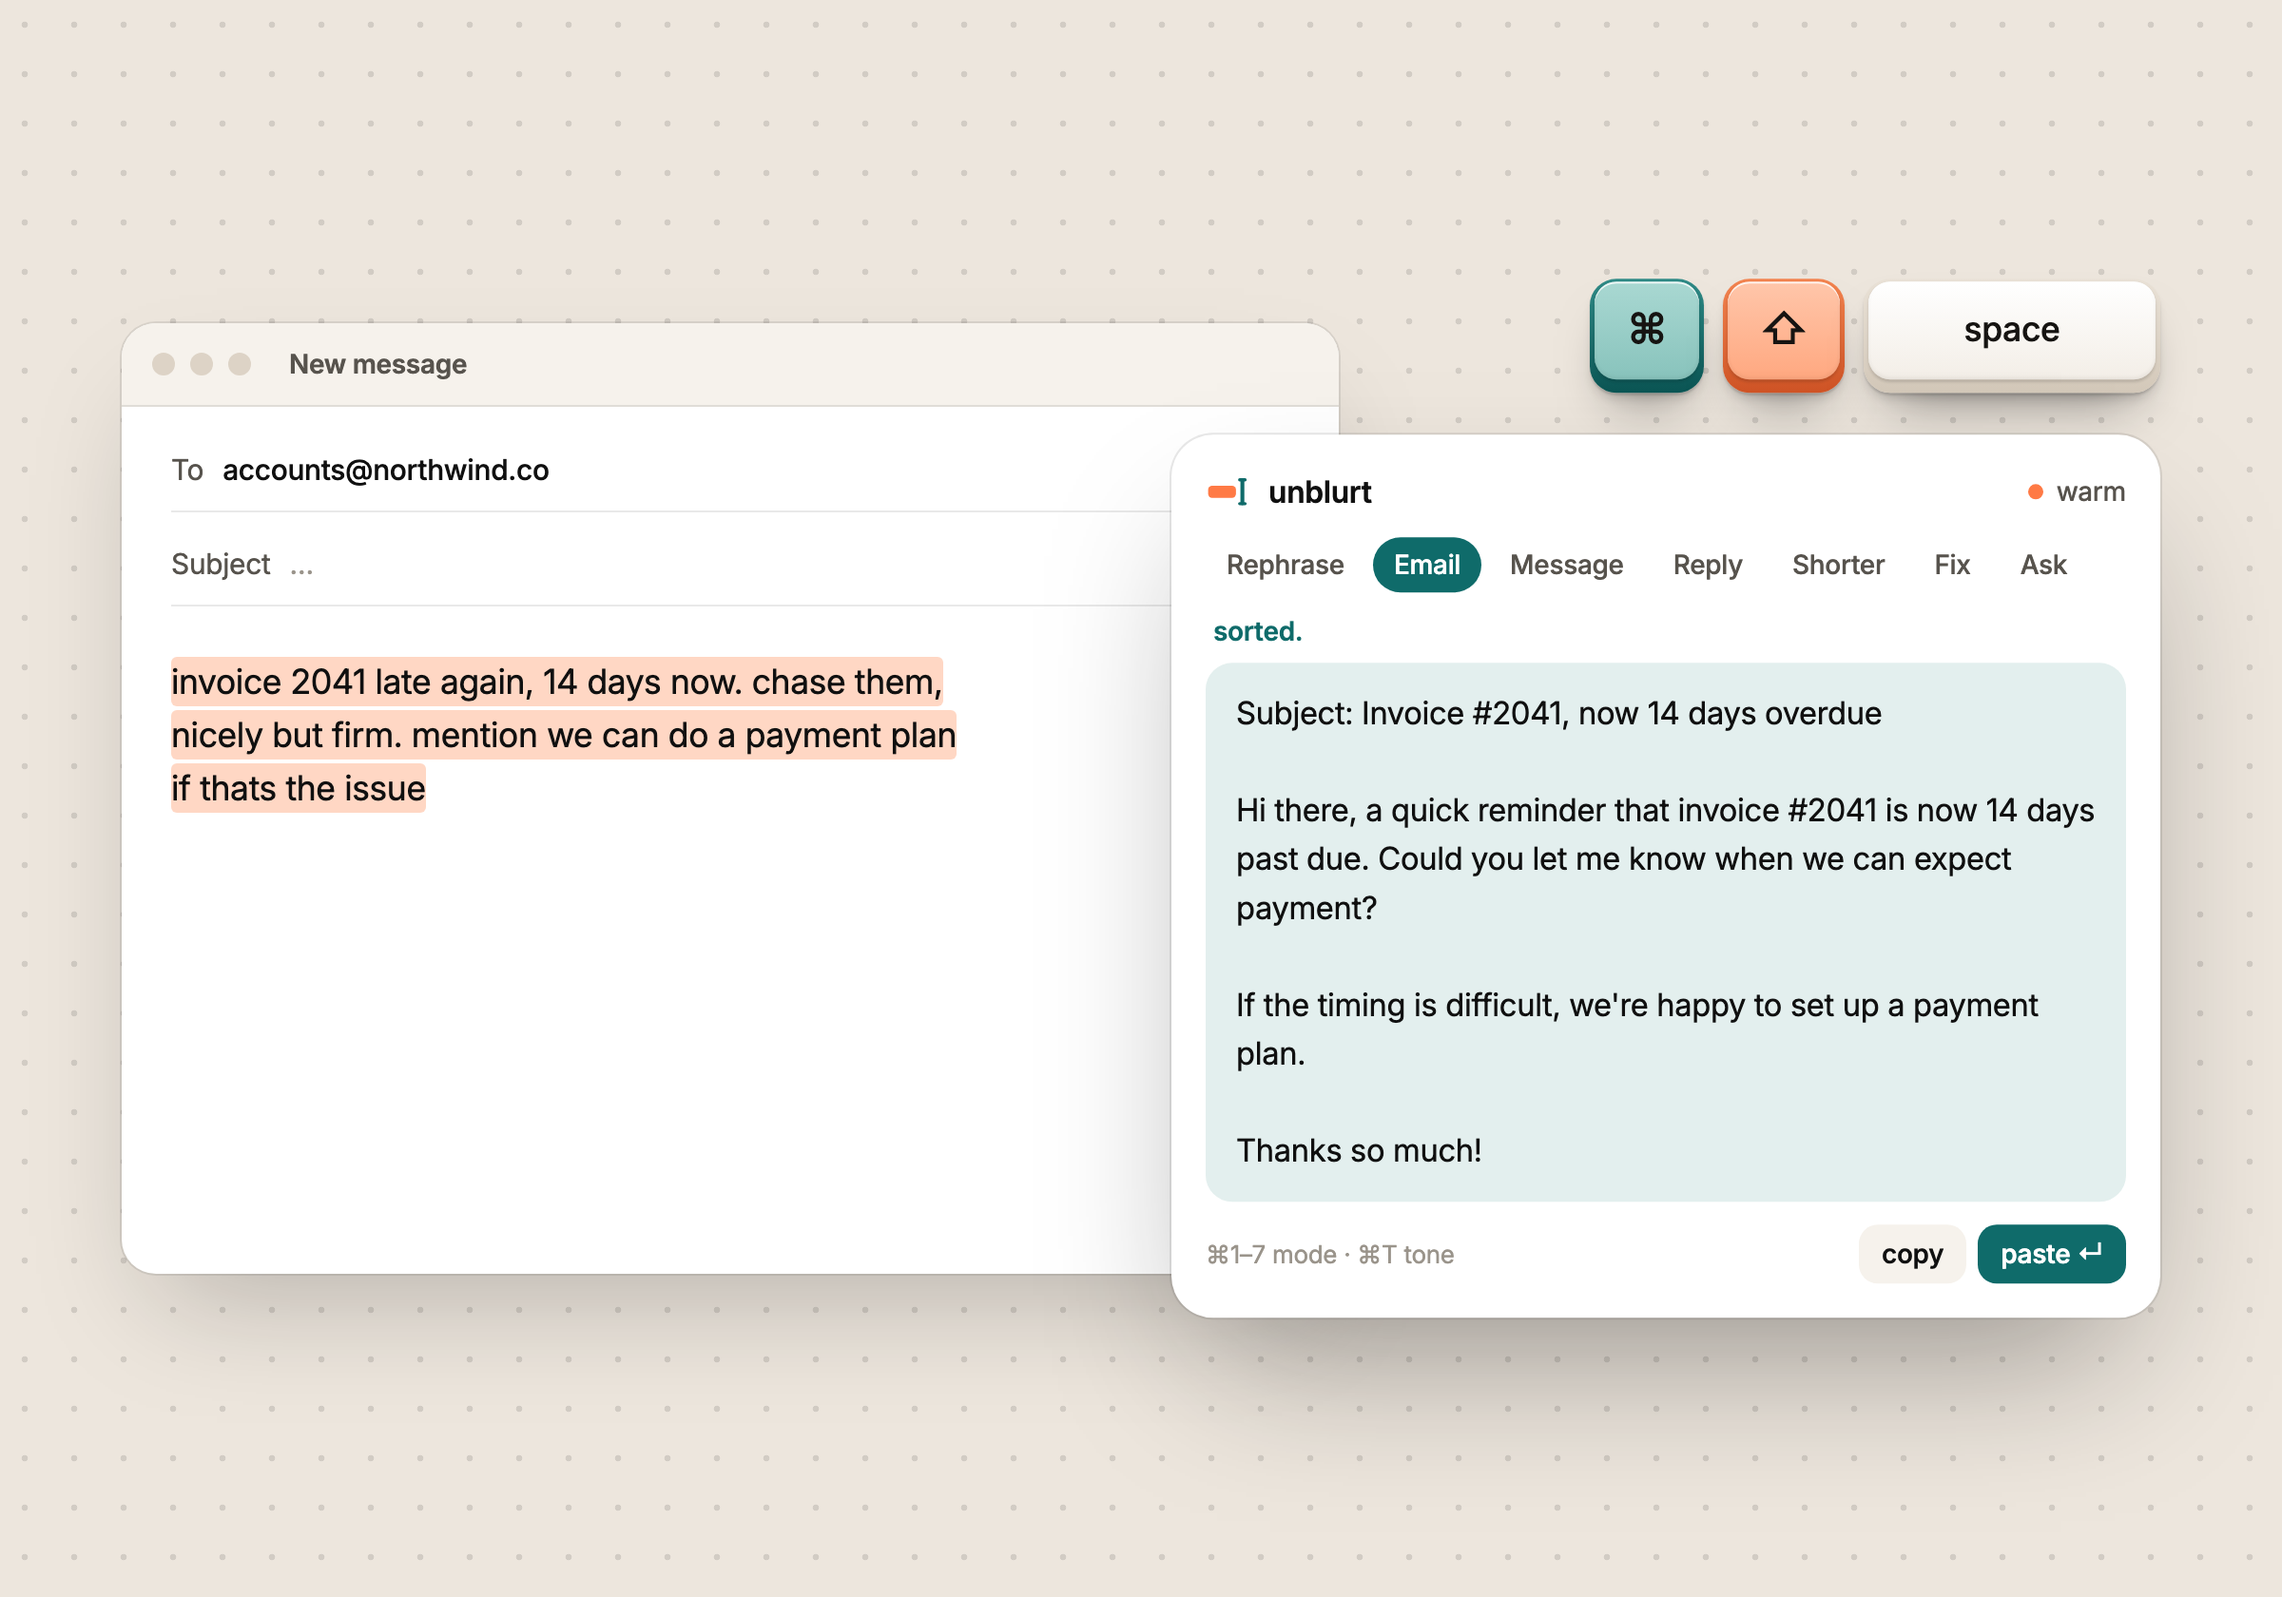
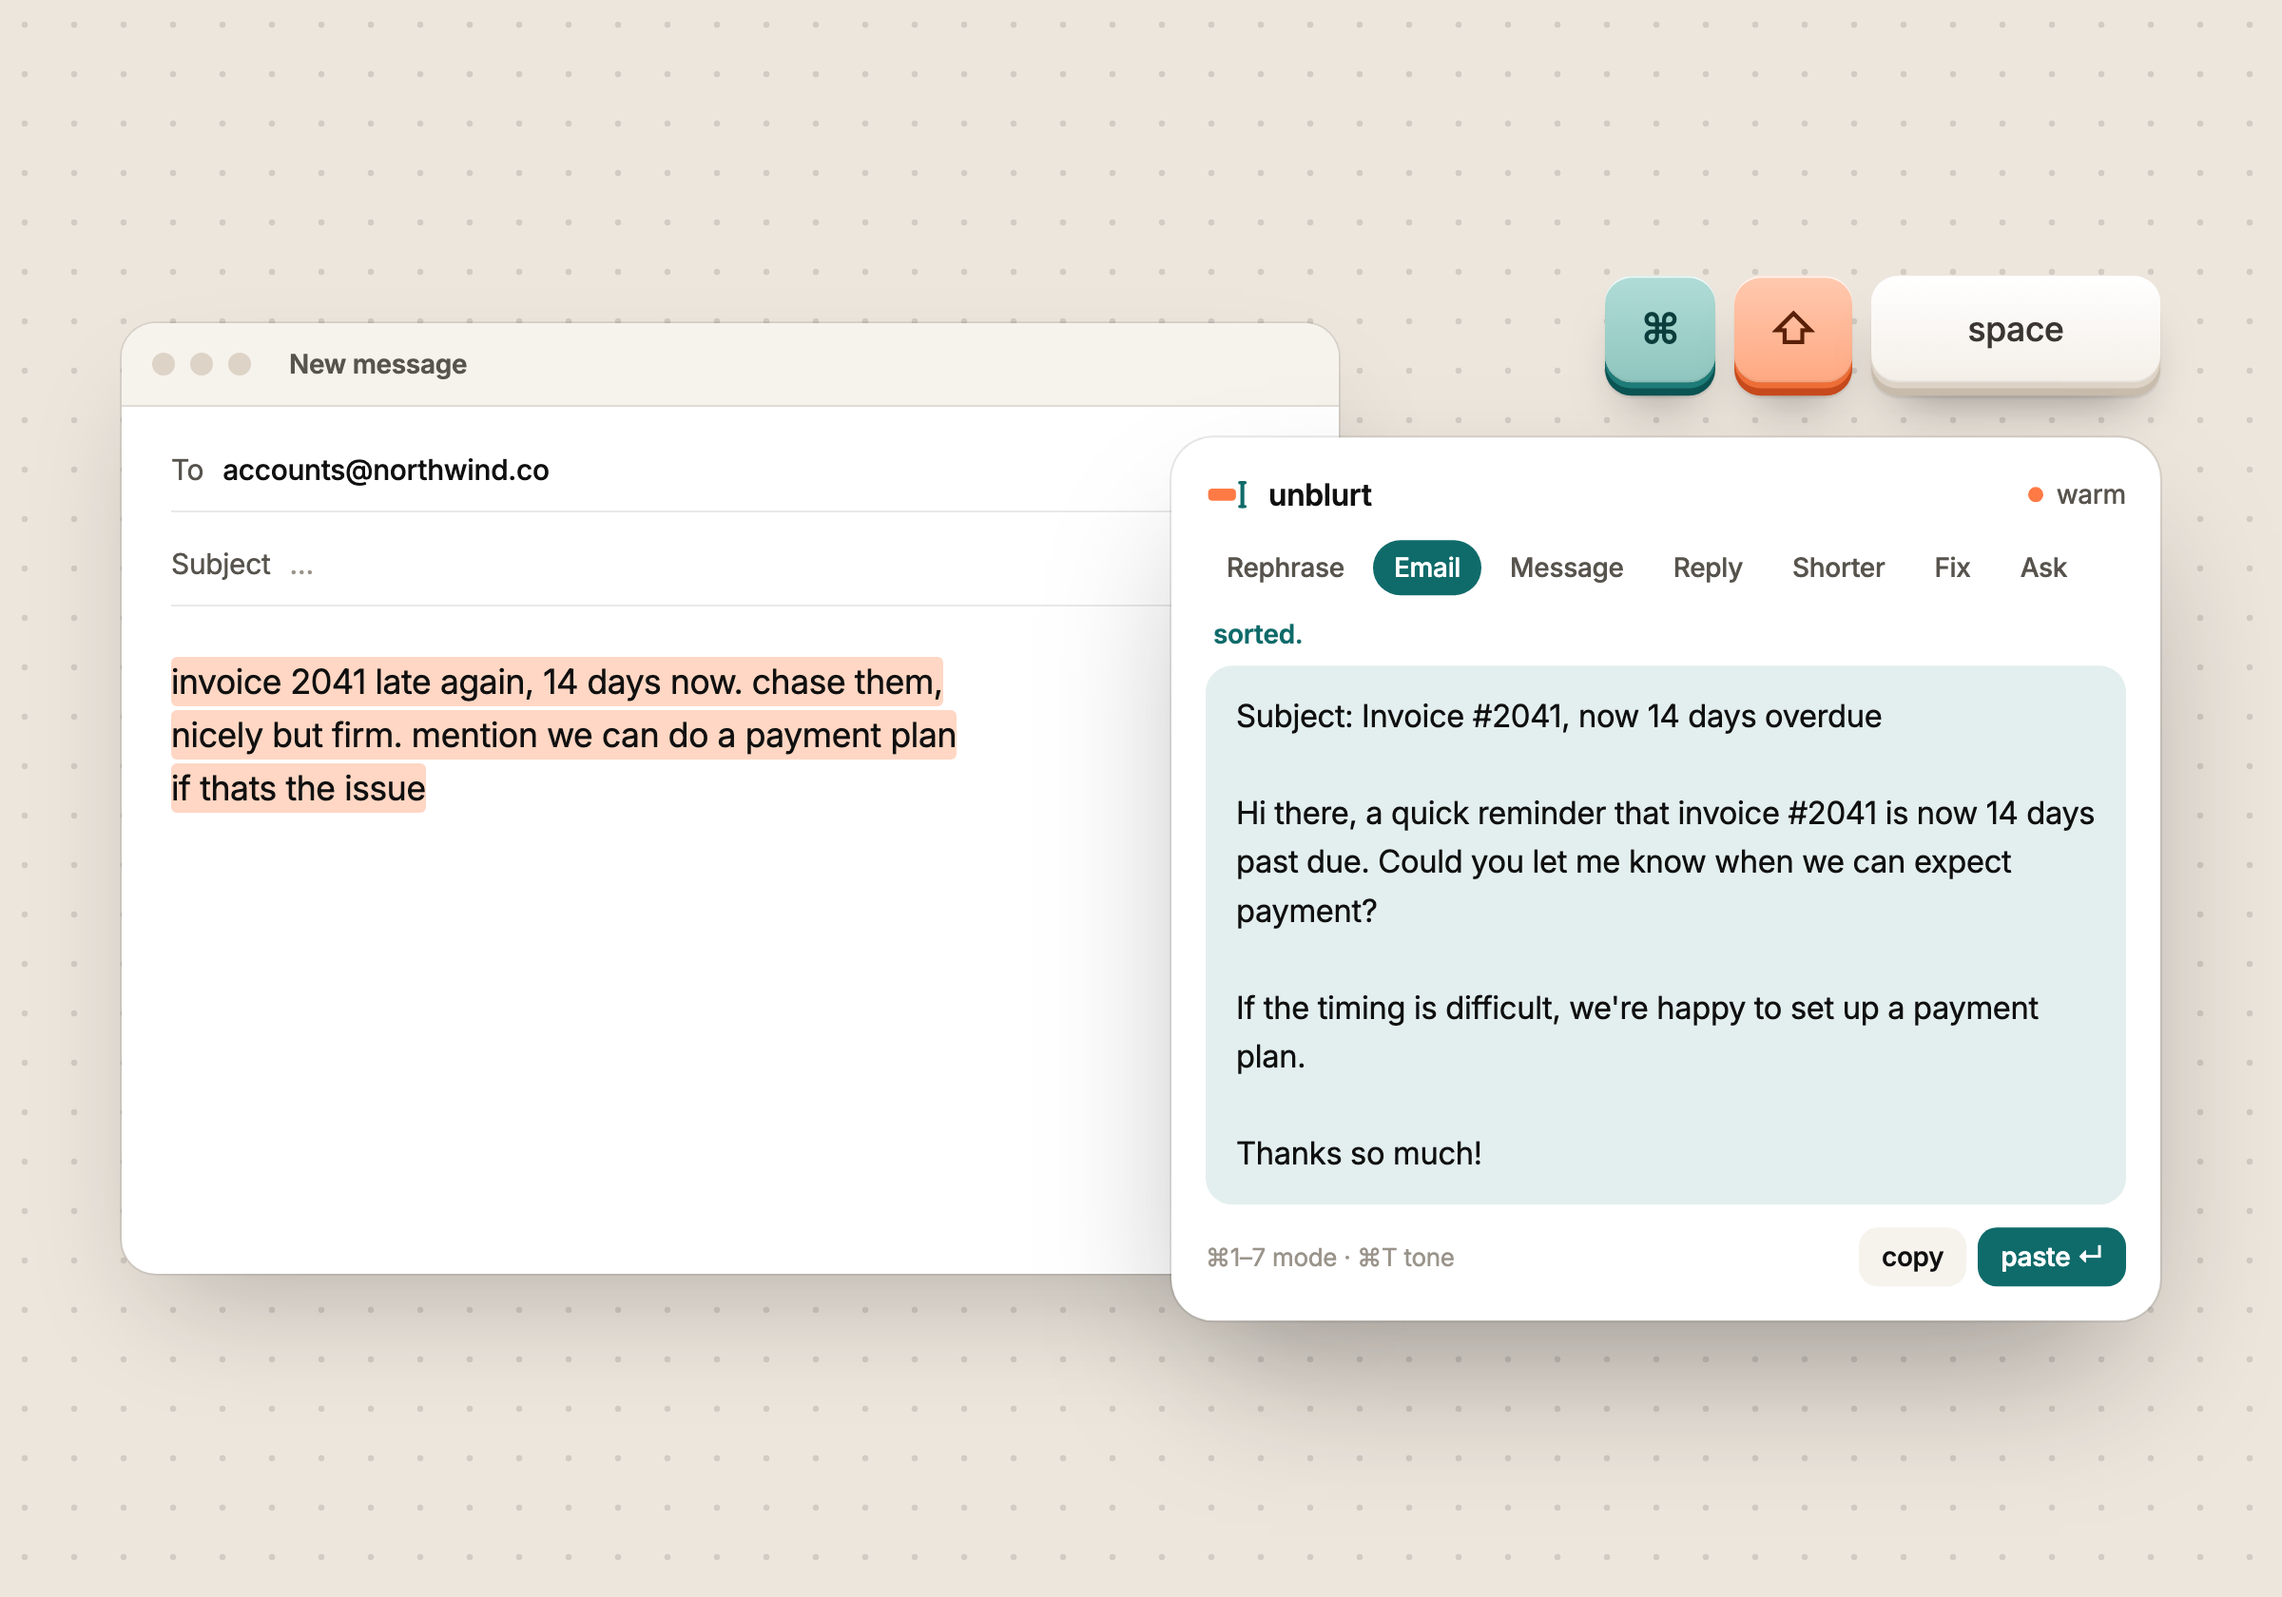
Keycaps: 'old, improved' style everywhere
A soft-gradient top on a two-tone side wall (lighter above, darker below),
deeper symbol colours and a springy press. One set of rules drives every key:
hero, How it works steps, demo overlay, story chip (with its tap animation),
inline keys in modes, download steps and FAQ, and the keys drawn in the product
shots (re-rendered).

QA: all pages at desktop and phone width with no errors or sideways scroll;
scroll hint clear of the scene at 9 sizes; hero at 6 sizes with the Download
button on the first screen down to 1280x720; story reaches all 7 steps; the
plate demo plays through on desktop and phone.

diff --git a/apps/web/assets/site.css b/apps/web/assets/site.css
@@ -43,20 +43,15 @@ button { font: inherit; color: inherit; }
 
 .wrap { max-width: var(--max); margin: 0 auto; padding: 0 var(--gutter); }
 
-/* Inline shortcut keys: a small version of the hero keycaps (lit face on a darker skirt). */
+/* Inline shortcut keys: a small version of the keycaps (soft top on a two-tone wall). */
 kbd {
-  position: relative; isolation: isolate;
+  --d: 0.2em;
   display: inline-flex; align-items: center; justify-content: center; gap: 1px;
-  min-width: 1.85em; height: 1.75em; padding: 0 0.48em 0.24em; margin: 0 0.06em;
-  border: 0; border-radius: 0.42em; vertical-align: 0.02em;
-  background: linear-gradient(180deg, #e7ded2, #cfc3b4);
-  box-shadow: 0 1px 1px rgba(16, 16, 16, 0.12), 0 3px 6px -3px rgba(16, 16, 16, 0.3);
-  font-family: var(--font); font-size: 0.8em; font-weight: 550; line-height: 1; color: #24201c; white-space: nowrap;
-}
-kbd::after {
-  content: ""; position: absolute; z-index: -1; inset: 1px 1.5px 0.24em; border-radius: 0.34em;
-  background: linear-gradient(180deg, #ffffff, #f2ece4);
-  box-shadow: inset 0 1px 0 rgba(255, 255, 255, 0.85), 0 0.5px 1px rgba(16, 16, 16, 0.14);
+  min-width: 1.85em; height: 1.65em; padding: 0 0.48em; margin: 0 0.06em var(--d); vertical-align: 0.12em;
+  border: 0; border-radius: 0.42em;
+  background: linear-gradient(180deg, #ffffff, #f4efe8);
+  box-shadow: inset 0 1px 0 rgba(255, 255, 255, 0.8), 0 calc(var(--d) * 0.45) 0 #ddd3c6, 0 var(--d) 0 #c8bcac, 0 calc(var(--d) + 1px) 1px rgba(0, 0, 0, 0.08), 0 6px 10px -6px rgba(16, 16, 16, 0.35);
+  font-family: var(--font); font-size: 0.8em; font-weight: 550; line-height: 1; color: #3b3631; white-space: nowrap;
 }
 
 /* ---------- type ---------- */
@@ -266,7 +261,7 @@ section { scroll-margin-top: 64px; }
 @media (max-width: 1000px) { .modes-grid { grid-template-columns: repeat(2, 1fr); } }
 @media (max-width: 600px) { .modes-grid { grid-template-columns: 1fr; } .mode { min-height: 0; } }
 .mode.wide p { margin: 0; font-size: clamp(20px, 2.4vw, 28px); font-weight: 500; letter-spacing: -0.03em; }
-.mode.wide kbd { box-shadow: 0 1px 1px rgba(0, 0, 0, 0.2), 0 4px 8px -3px rgba(0, 0, 0, 0.35); }
+
 
 /* ---------- steps / engine ---------- */
 
@@ -392,41 +387,38 @@ section { scroll-margin-top: 64px; }
 .byline a { text-decoration: none; align-self: flex-start; }
 .byline a:hover b { text-decoration: underline; text-underline-offset: 3px; }
 
-/* ---------- keycaps (hero, demo overlay, story chip) ----------
-   A real keycap: a lit top face (::after) sitting on a darker skirt (the element's own background).
-   --d is how much skirt shows under the face; pressing slides the face and the glyph down into it. */
+/* ---------- keycaps (hero, steps, demo overlay, story chip) ----------
+   A soft-gradient top on a two-tone side wall: the upper part of the wall is lighter, the lower
+   part darker. --d is how tall the wall is; pressing slides the key down onto it.
+   Every keycap on the site, big or small, comes from these rules. */
 
 .cap {
-  --face-hi: #ffffff; --face-lo: #f3eee7; --wall-hi: #e9e1d6; --wall-lo: #d3c8b9;
-  --d: 7px; --press: 4px; --r: 14px;
-  position: relative; isolation: isolate; flex: none;
-  display: inline-grid; place-items: center;
-  height: 60px; min-width: 60px; padding: 0 19px var(--d); border-radius: var(--r);
-  background: linear-gradient(180deg, var(--wall-hi), var(--wall-lo));
-  color: #161412; font-size: 22px; font-weight: 500; line-height: 1; letter-spacing: -0.01em;
-  box-shadow: 0 1px 1px rgba(16, 16, 16, 0.12), 0 4px 6px -2px rgba(16, 16, 16, 0.16), 0 16px 28px -14px rgba(16, 16, 16, 0.5);
-  transition: padding 0.08s ease-out, box-shadow 0.08s ease-out;
+  --t1: #ffffff; --t2: #f4efe8; --w1: #ddd3c6; --w2: #c8bcac; --g: #3b3631; --d: 7px;
+  --wall: 0 calc(var(--d) * 0.45) 0 var(--w1), 0 var(--d) 0 var(--w2), 0 calc(var(--d) + 1px) 1px rgba(0, 0, 0, 0.08);
+  --lift: 0 20px 28px -14px rgba(16, 16, 16, 0.5);
+  display: inline-grid; place-items: center; flex: none;
+  height: 56px; min-width: 58px; padding: 0 18px; margin-bottom: var(--d); border-radius: 14px;
+  background: linear-gradient(180deg, var(--t1), var(--t2)); color: var(--g);
+  font-size: 22px; font-weight: 550; line-height: 1; letter-spacing: -0.01em;
+  box-shadow: inset 0 1px 0 rgba(255, 255, 255, 0.8), inset 0 -1px 0 rgba(0, 0, 0, 0.05), var(--wall), var(--lift);
+  transition: transform 0.1s cubic-bezier(0.3, 0.7, 0.4, 1.4), box-shadow 0.1s;
   user-select: none; -webkit-user-select: none; -webkit-tap-highlight-color: transparent;
 }
-.cap::after {
-  content: ""; position: absolute; z-index: -1;
-  inset: 1.5px 2.5px var(--d); border-radius: calc(var(--r) - 2.5px);
-  background: linear-gradient(180deg, var(--face-hi) 0%, var(--face-lo) 100%);
-  box-shadow: inset 0 1px 0 rgba(255, 255, 255, 0.8), inset 0 -1px 2px rgba(16, 16, 16, 0.06), 0 1px 1.5px rgba(16, 16, 16, 0.14);
-  transition: transform 0.08s ease-out;
-}
-.cap.t { --face-hi: #a9d8d2; --face-lo: #88c3bc; --wall-hi: #2f8a86; --wall-lo: #0b5554; }
-.cap.o { --face-hi: #ffc6aa; --face-lo: #ffa880; --wall-hi: #f2834f; --wall-lo: #cf5426; }
-.cap.sp { min-width: 156px; font-size: 18px; }
+.cap.t { --t1: #b0dcd6; --t2: #8fc6bf; --w1: #1f7d79; --w2: #0b5554; --g: #0a3d3c; }
+.cap.o { --t1: #ffc9af; --t2: #ffa982; --w1: #ee6f38; --w2: #c84b1d; --g: #5a2008; }
+.cap.sp { min-width: 152px; font-size: 18px; font-weight: 500; }
 
-/* pressed: face and glyph sink into the skirt */
-.cap.down, .keys-overlay.press .cap { padding-top: calc(var(--press) * 2); box-shadow: 0 1px 1px rgba(16, 16, 16, 0.12), 0 3px 4px -2px rgba(16, 16, 16, 0.16), 0 10px 18px -12px rgba(16, 16, 16, 0.45); }
-.cap.down::after, .keys-overlay.press .cap::after { transform: translateY(var(--press)); }
+/* pressed: the key travels down onto its wall */
+.cap.down, .keys-overlay.press .cap {
+  transform: translateY(calc(var(--d) - 1px));
+  box-shadow: inset 0 1px 0 rgba(255, 255, 255, 0.6), inset 0 2px 4px rgba(0, 0, 0, 0.08), 0 1px 0 var(--w2), 0 2px 1px rgba(0, 0, 0, 0.08), 0 8px 12px -8px rgba(16, 16, 16, 0.45);
+}
 
 .keycaps { display: flex; gap: 10px; padding: 4px 0 8px; }
 .keycaps .cap { cursor: pointer; }
+@media (hover: hover) { .keycaps .cap:not(.down):hover { transform: translateY(-1px); } }
 @media (max-width: 600px) {
-  .cap { --d: 6px; --r: 12px; height: 52px; min-width: 52px; padding-inline: 16px; font-size: 20px; }
+  .cap { --d: 6px; height: 50px; min-width: 52px; padding: 0 15px; font-size: 20px; border-radius: 12px; }
   .cap.sp { min-width: 126px; font-size: 16px; }
 }
 
@@ -560,12 +552,15 @@ section { scroll-margin-top: 64px; }
   transform: translate(-50%, 10px); opacity: 0; transition: opacity 0.25s, transform 0.35s cubic-bezier(0.2, 0.9, 0.3, 1.2);
 }
 .sv-key.show { opacity: 1; transform: translate(-50%, 0); }
-.sv-key .cap { --d: 6px; --press: 3px; --r: 12px; height: 48px; min-width: 48px; font-size: 18px; padding-inline: 14px; }
+.sv-key .cap { --d: 6px; height: 46px; min-width: 48px; font-size: 18px; padding: 0 14px; border-radius: 12px; }
 .sv-key .cap.sp { min-width: 112px; font-size: 15px; }
 .sv-key.tap .cap { animation: cap-tap 0.5s 0.15s both; }
-.sv-key.tap .cap::after { animation: face-tap 0.5s 0.15s both; }
-@keyframes cap-tap { 40% { padding-top: calc(var(--press) * 2); } }
-@keyframes face-tap { 40% { transform: translateY(var(--press)); } }
+@keyframes cap-tap {
+  40% {
+    transform: translateY(calc(var(--d) - 1px));
+    box-shadow: inset 0 1px 0 rgba(255, 255, 255, 0.6), inset 0 2px 4px rgba(0, 0, 0, 0.08), 0 1px 0 var(--w2), 0 2px 1px rgba(0, 0, 0, 0.08), 0 8px 12px -8px rgba(16, 16, 16, 0.45);
+  }
+}
 
 .sv-cursor {
   position: absolute; left: -5px; top: -3px; width: 24px; height: 24px; z-index: 4; pointer-events: none;
@@ -670,7 +665,7 @@ section { scroll-margin-top: 64px; }
   .story-vis { height: calc(100vh - 64px - 64px); height: calc(100svh - 64px - 64px); margin-bottom: 0; }
   .sv-msg { display: none; }
   .sv-key { bottom: -14px; }
-  .sv-key .cap { --d: 5px; --press: 2px; --r: 10px; height: 38px; min-width: 38px; font-size: 15px; padding-inline: 11px; }
+  .sv-key .cap { --d: 4px; height: 36px; min-width: 38px; font-size: 15px; padding: 0 11px; border-radius: 10px; }
   .sv-key .cap.sp { min-width: 84px; font-size: 13px; }
   .sv-pop { top: 50px; }
   .sv-pop-modes, .sv-pop-foot { display: none; }

diff --git a/brand/creatives/product.html b/brand/creatives/product.html
@@ -36,11 +36,10 @@ body.tall .pop{width:100%}
 /* right column: the shortcut sits above the popover it opens, both right-aligned */
 .side{position:absolute;right:64px;top:50%;transform:translateY(-50%);display:flex;flex-direction:column;align-items:flex-end;gap:22px}
 .keys{display:flex;gap:10px}
-kbd{--fh:#fff;--fl:#f3eee7;--wh:#e9e1d6;--wl:#d3c8b9;--d:7px;position:relative;isolation:isolate;display:grid;place-items:center;font-family:inherit;font-size:22px;font-weight:500;line-height:1;color:#161412;min-width:60px;height:60px;padding:0 19px var(--d);border-radius:14px;background:linear-gradient(180deg,var(--wh),var(--wl));box-shadow:0 1px 1px rgba(16,16,16,.12),0 4px 6px -2px rgba(16,16,16,.16),0 16px 28px -14px rgba(16,16,16,.5)}
-kbd::after{content:"";position:absolute;z-index:-1;inset:1.5px 2.5px var(--d);border-radius:11.5px;background:linear-gradient(180deg,var(--fh),var(--fl));box-shadow:inset 0 1px 0 rgba(255,255,255,.8),inset 0 -1px 2px rgba(16,16,16,.06),0 1px 1.5px rgba(16,16,16,.14)}
-kbd.t{--fh:#a9d8d2;--fl:#88c3bc;--wh:#2f8a86;--wl:#0b5554}
-kbd.o{--fh:#ffc6aa;--fl:#ffa880;--wh:#f2834f;--wl:#cf5426}
-kbd.sp{min-width:156px;font-size:18px}
+kbd{--t1:#fff;--t2:#f4efe8;--w1:#ddd3c6;--w2:#c8bcac;--g:#3b3631;--d:7px;display:grid;place-items:center;font-family:inherit;font-size:22px;font-weight:550;line-height:1;color:var(--g);min-width:58px;height:56px;padding:0 18px;margin-bottom:var(--d);border-radius:14px;background:linear-gradient(180deg,var(--t1),var(--t2));box-shadow:inset 0 1px 0 rgba(255,255,255,.8),inset 0 -1px 0 rgba(0,0,0,.05),0 calc(var(--d)*.45) 0 var(--w1),0 var(--d) 0 var(--w2),0 calc(var(--d) + 1px) 1px rgba(0,0,0,.08),0 20px 28px -14px rgba(16,16,16,.5)}
+kbd.t{--t1:#b0dcd6;--t2:#8fc6bf;--w1:#1f7d79;--w2:#0b5554;--g:#0a3d3c}
+kbd.o{--t1:#ffc9af;--t2:#ffa982;--w1:#ee6f38;--w2:#c84b1d;--g:#5a2008}
+kbd.sp{min-width:152px;font-size:18px;font-weight:500}
 
 /* unblurt popover */
 .pop{position:relative;width:520px;background:#fff;border-radius:22px;padding:18px;display:flex;flex-direction:column;gap:12px;box-shadow:0 40px 80px -24px rgba(16,16,16,.4),0 0 0 1px var(--line)}
